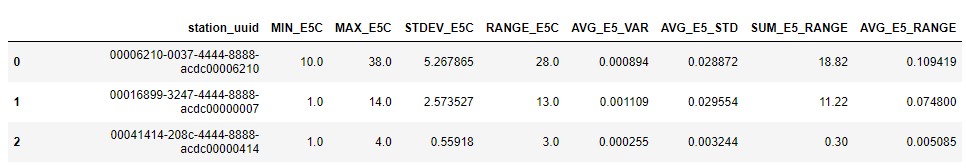
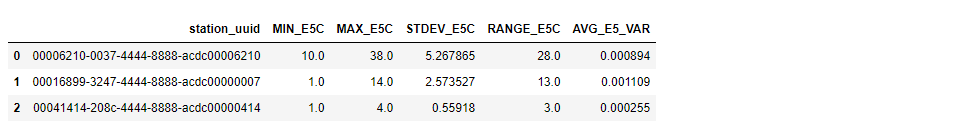
6.2.1

diff --git a/exercises/ex6/README.md b/exercises/ex6/README.md
@@ -97,24 +97,12 @@ Text
 ````Python
 # Drop high correlated indicator columns
 stations_price_indicators=stations_price_indicators.drop('AVG_E5_MIN').drop('AVG_E5_MAX').drop('SUM_E5C').drop('AVG_E5C')
+stations_price_indicators=stations_price_indicators.drop('AVG_E5_STD').drop('SUM_E5_RANGE').drop('AVG_E5_RANGE')
 stations_price_indicators.head(3).collect() 
 
 ````
 <br>![](/exercises/ex6/images/6.1.5-stations_price_indicators_fin.png)
 
-Text
-````Python
-import 
-
-````
-<br>![](/exercises/ex6/images/02_019_0010.png)
-
-Text
-````Python
-import 
-
-````
-<br>![](/exercises/ex6/images/02_019_0010.png)
 
 
 
@@ -123,20 +111,53 @@ import
 
 After completing these steps you will have...
 
-1.	Enter this code.
-```abap
-DATA(lt_params) = request->get_form_fields(  ).
-READ TABLE lt_params REFERENCE INTO DATA(lr_params) WITH KEY name = 'cmd'.
-  IF sy-subrc = 0.
-    response->set_status( i_code = 200
-                     i_reason = 'Everything is fine').
-    RETURN.
-  ENDIF.
+STEP 1 -	Enter this code.
+Text
+````Python
+# Create a station spatial hierarchy HANA dataframe
+stations_spatialhierarchy = stations_hdf.select('uuid', 'longitude','latitude','longitude_latitude_GEO')
 
-```
+# Derive spatial hierarchy features from station point location
+stations_spatialhierarchy =stations_spatialhierarchy.generate_feature(targets='longitude_latitude_GEO', 
+                                                          trans_func='GEOHASH_HIERARCHY', trans_param=range(3,8))
 
-2.	Click here.
-<br>![](/exercises/ex6/images/02_02_0010.png)
+# Rename columns
+stations_spatialhierarchy=stations_spatialhierarchy.rename_columns({'GEOHASH_HIERARCHY(longitude_latitude_GEO,3)': 'GEO_H3', 
+                                                                    'GEOHASH_HIERARCHY(longitude_latitude_GEO,4)': 'GEO_H4', 
+                                                                    'GEOHASH_HIERARCHY(longitude_latitude_GEO,5)': 'GEO_H5',
+                                                                    'GEOHASH_HIERARCHY(longitude_latitude_GEO,6)': 'GEO_H6',
+                                                                    'GEOHASH_HIERARCHY(longitude_latitude_GEO,7)': 'GEO_H7'}
+                                                                      )
+
+stations_spatialhierarchy.head(2).collect() 
+
+````
+<br>![](/exercises/ex6/images/02_019_0010.png)
+
+Text
+````Python
+import 
+
+````
+<br>![](/exercises/ex6/images/02_019_0010.png)
+
+````
+
+STEP 1 -	Click here.
+Text
+````Python
+import 
+
+````
+<br>![](/exercises/ex6/images/02_019_0010.png)
+
+Text
+````Python
+import 
+
+````
+<br>![](/exercises/ex6/images/02_019_0010.png)
+
 
 ## Exercise 6.3 Build fuel station classification model and evaluate impact of attributes<a name="subex3"></a>
 

diff --git a/exercises/ex5/README.md b/exercises/ex5/README.md
@@ -254,7 +254,7 @@ timeseries_box_plot(data=fuelprice_sample, col="e5", key="date", cycle="MONTH")
 ````
 <br>![](/exercises/ex5/images/5.2.8-price_timeseries_boxplot.png)
 
-## Exercise 5.3 Forecast fuel prices<a name="subex3"></a>
+## Exercise 5.3 Forecast fuel prices <a name="subex3"></a>
 
 Step 1 - Select price data for local region
 
